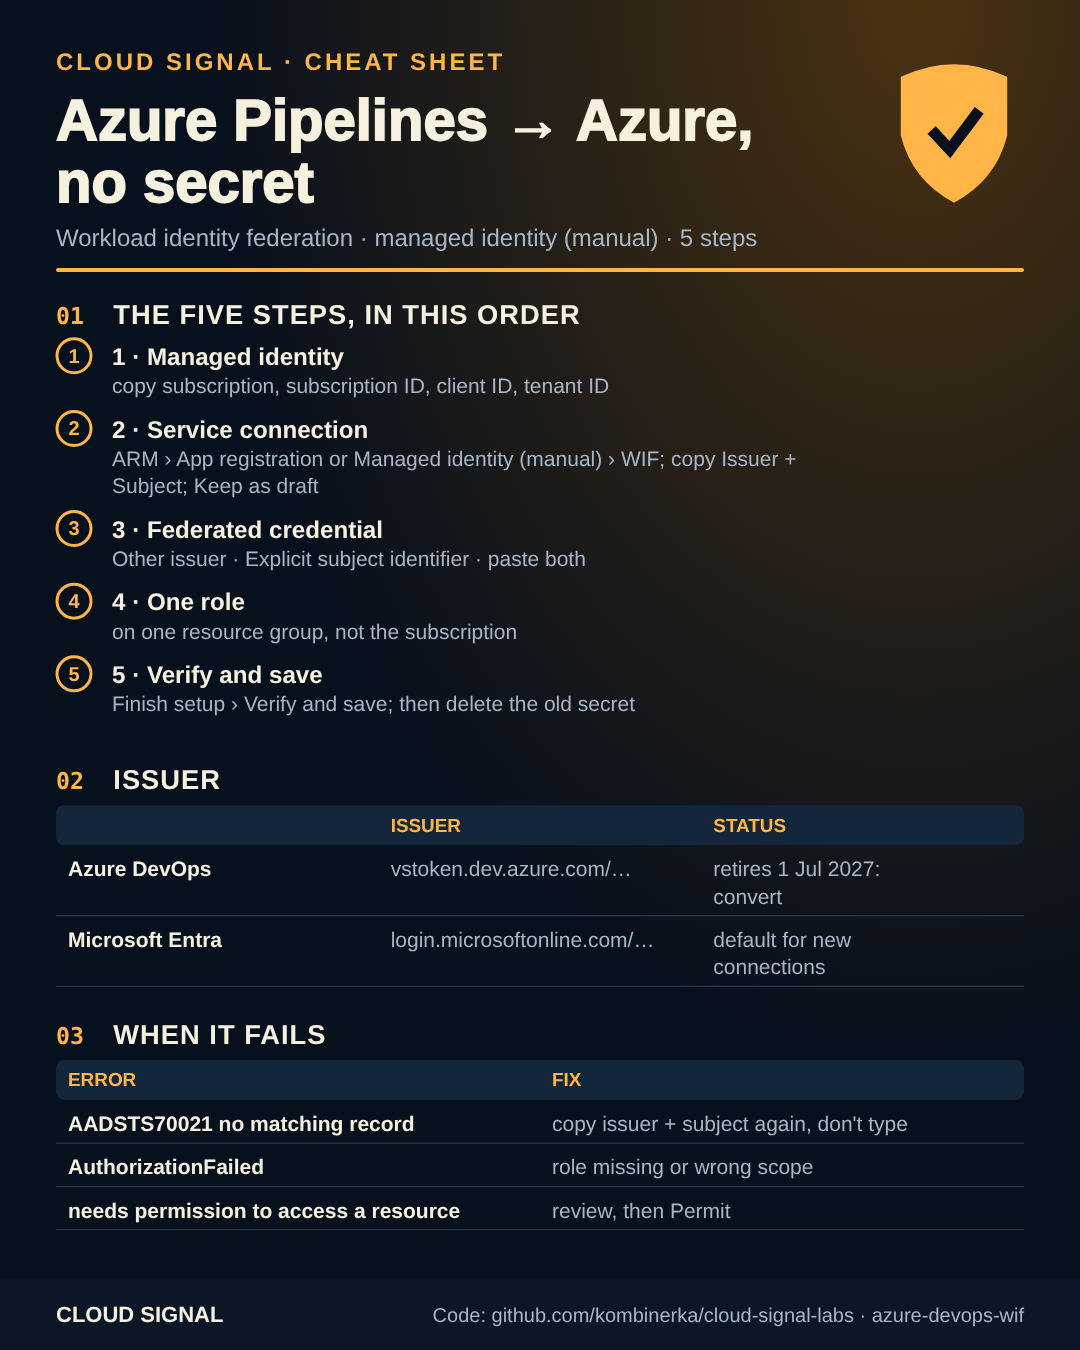
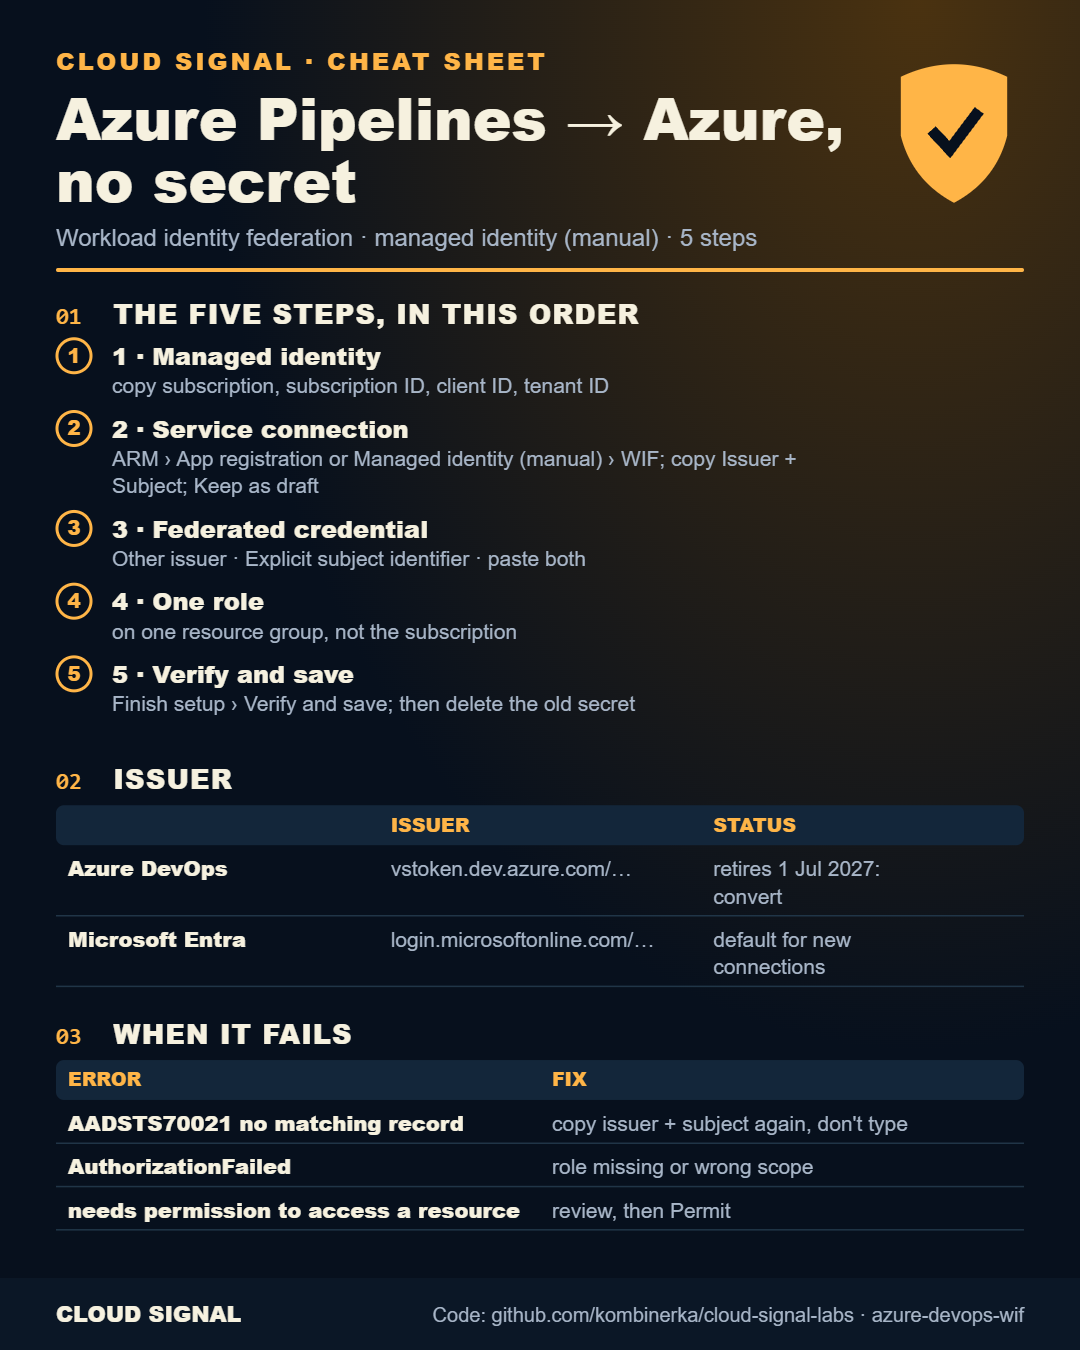
Add T28, T29, S39 cheat sheets; rendered cheat sheets for azure-devops-wif and cloud-math/01
Claude-Session: https://claude.ai/code/session_017yhdx7g7cwuk1foms8rncz

diff --git a/shorts/README.md b/shorts/README.md
@@ -25,6 +25,7 @@ One-page summary for each Cloud Signal Short (S = simple, T = technical, N = new
 | S36 | [System Prompt vs User Prompt: Keep Your Chatbot On Topic (AI-901)](s36-systemprompt.png) |
 | S37 | [Vision Models vs Image Generation: Which One Do You Need? (AI-901)](s37-describedraw.png) |
 | S38 | [OCR vs Information Extraction: Reading Text vs Understanding It (AI-901)](s38-ocrvsextract.png) |
+| S39 | [Canary Release Explained: Why You Ship to 1% First](s39-canary.png) |
 | T18 | [Kubernetes OOMKilled vs CPU Throttling: Memory vs CPU Limits](t18-oomkilled.png) |
 | T19 | [Azure CLI Can't Find Your Resources? Check the Subscription](t19-wrongsub.png) |
 | T20 | [Expired Client Secret: Why Your Azure Pipeline Suddenly Fails](t20-secretexpiry.png) |
@@ -35,6 +36,8 @@ One-page summary for each Cloud Signal Short (S = simple, T = technical, N = new
 | T25 | [Azure Key Vault Soft Delete: Why the Vault Name Is Still Taken](t25-kvsoftdelete.png) |
 | T26 | [Terraform sensitive = true Doesn't Hide Secrets in State](t26-tfstatesecrets.png) |
 | T27 | [Azure Policy Audit vs Deny: Why the Resource Was Still Created](t27-policyaudit.png) |
+| T28 | [Azure NSG Allows Port 443, Still Timing Out? Check the Second NSG](t28-nsgtwice.png) |
+| T29 | [Terraform Rename Wants to Destroy Your Database? Use a moved Block](t29-forcereplace.png) |
 | W1 | [The Uncensored Library: Censored News Hidden Inside Minecraft](w1-uncensoredlibrary.png) |
 | W2 | [Perseverance Breaks the Mars Driving Record: How Its Self-Driving Works](w2-perseverance.png) |
 | W7 | [How NASA Fixed Voyager 1 From 24 Billion km Away: Moving Code Around a Dead Chip](w7-voyagerpatch.png) |
